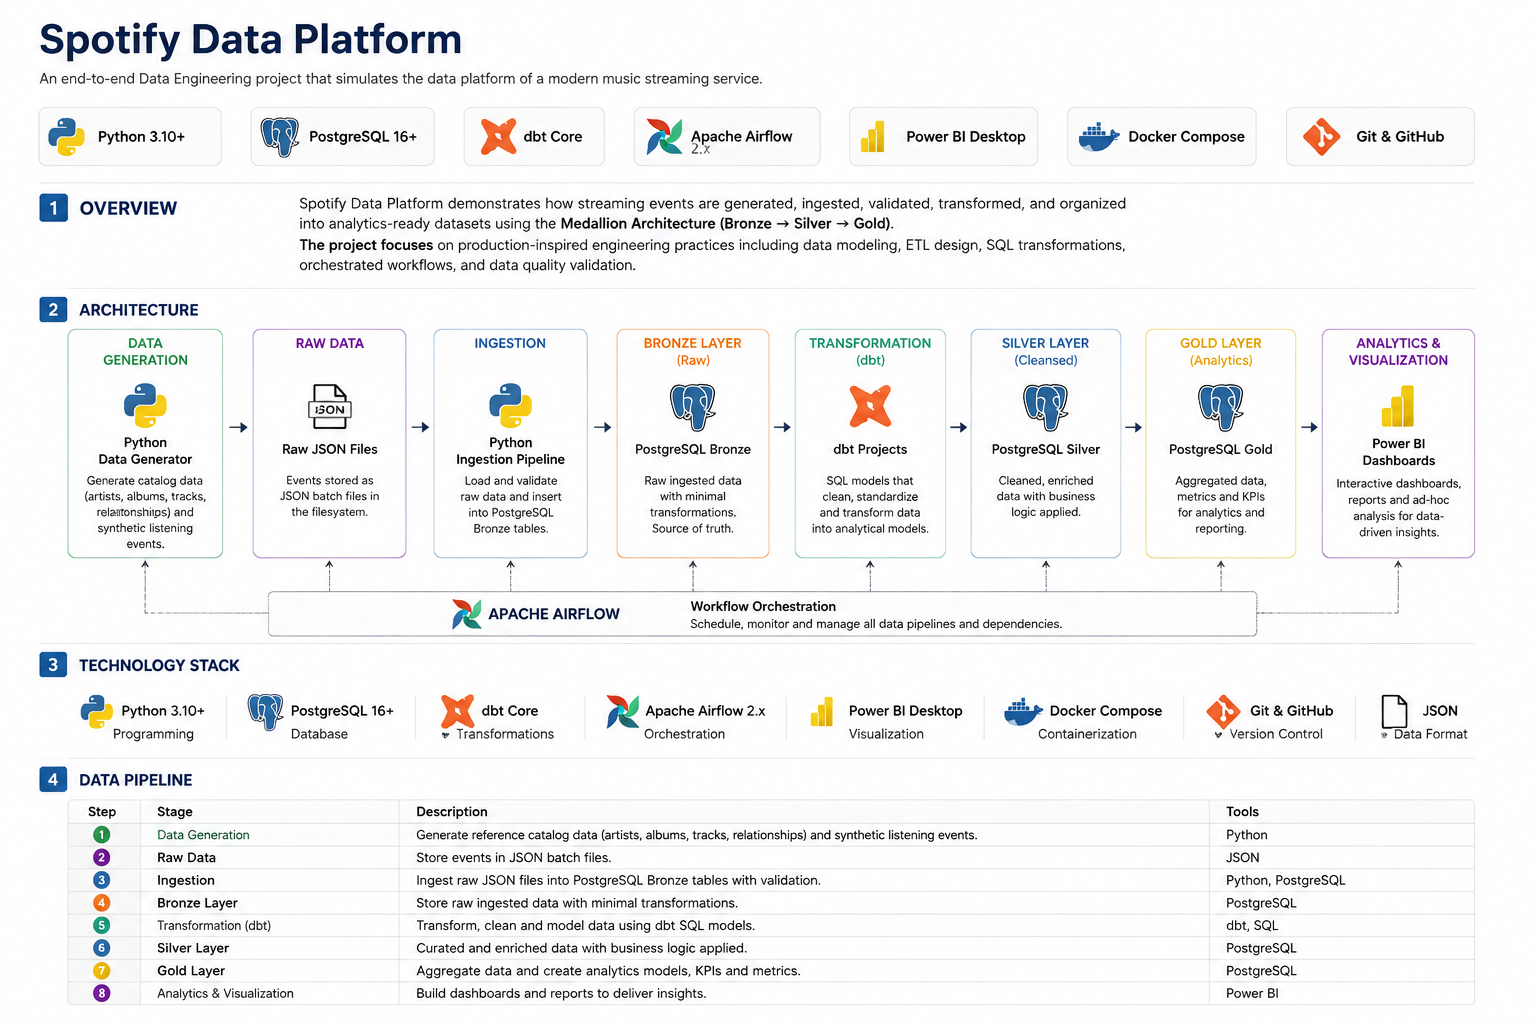
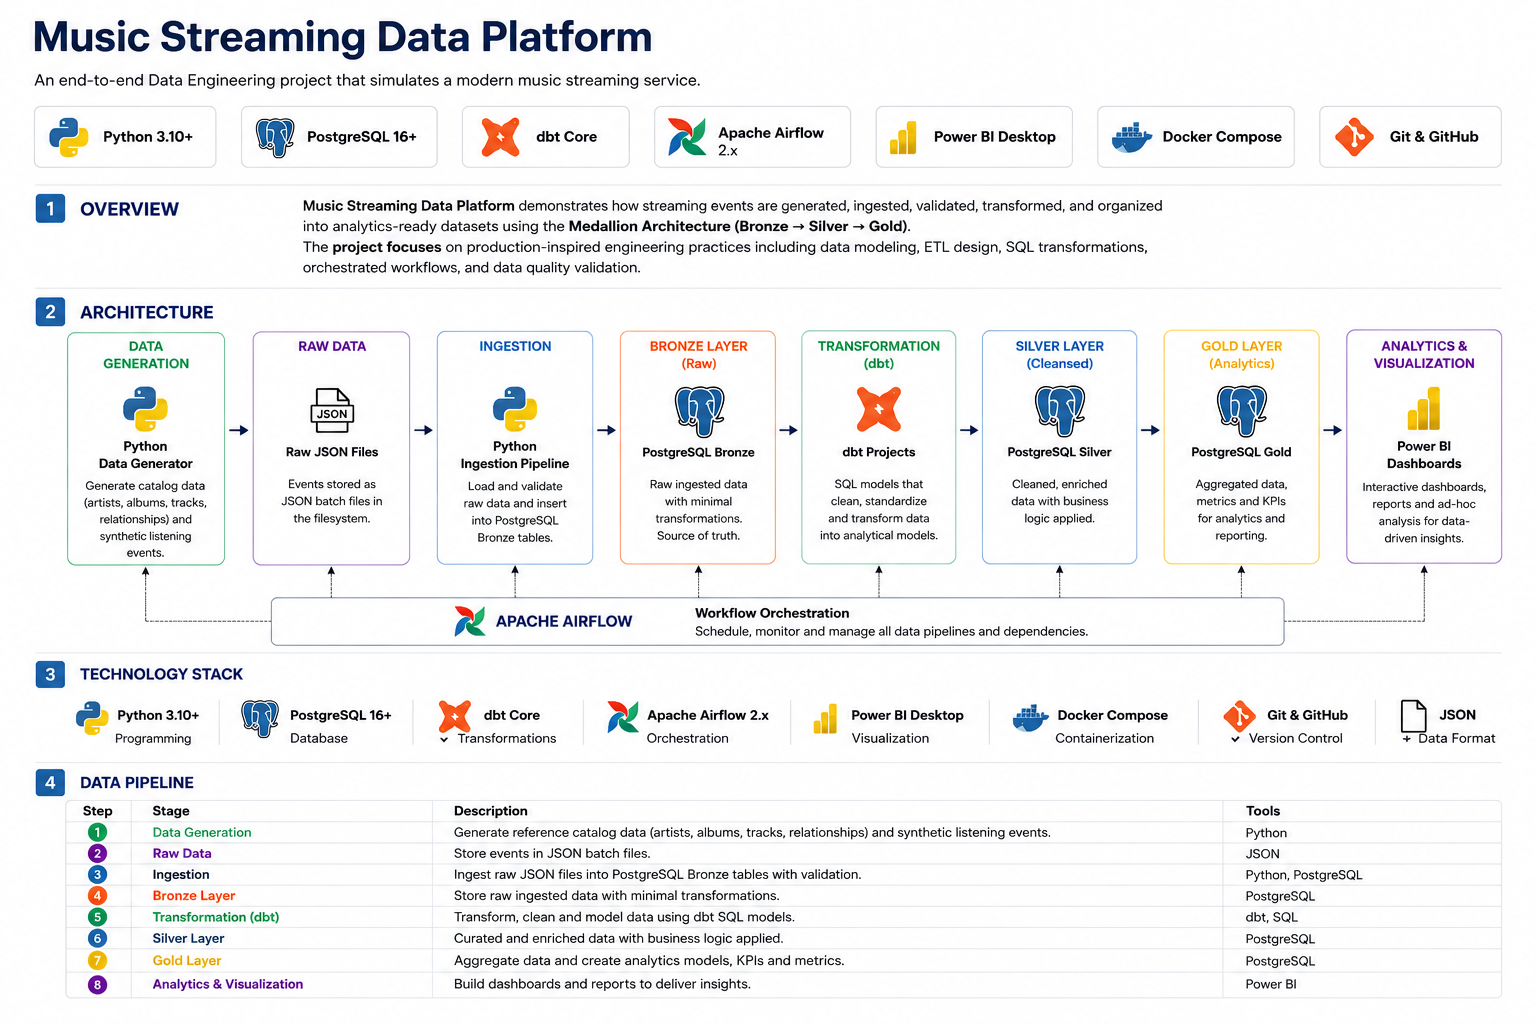
Rename project and update architecture documentation

diff --git a/src/ingest_catalog.py b/src/ingest_catalog.py
@@ -9,11 +9,10 @@ RAW_DATA_DIR = Path("data/raw")
 CONNECTION_STRING = (
     "host=localhost "
     "port=5432 "
-    "dbname=spotify "
-    "user=spotify_user "
-    "password=spotify_password"
+    "dbname=music_streaming "
+    "user=music_streaming_user "
+    "password=music_streaming_password"
 )
-
 
 def load_json(file_name: str) -> list[dict]:
     """Load records from a raw JSON file."""

diff --git a/src/ingest_events.py b/src/ingest_events.py
@@ -22,9 +22,9 @@ def insert_events(events: list[dict]) -> int:
     connection_string = (
         "host=localhost "
         "port=5432 "
-        "dbname=spotify "
-        "user=spotify_user "
-        "password=spotify_password"
+        "dbname=music_streaming "
+        "user=music_streaming_user "
+        "password=music_streaming_password"
     )
 
     insert_query = """

diff --git a/src/generate_events.py b/src/generate_events.py
@@ -275,7 +275,7 @@ def generate_event(
         "event_id": str(
             uuid5(
                 NAMESPACE_URL,
-                f"spotify-event-{event_number}",
+                f"music-streaming-event-{event_number}",
             )
         ),
         "user_id": user_id,

diff --git a/README.md b/README.md
@@ -12,6 +12,8 @@ The main focus is on building production-inspired data pipelines, applying data 
 
 # Architecture
 
+![Architecture](docs/architecture.png)
+
 The platform follows a layered data architecture with two primary data sources:
 
 - **Listening Events:** 500,000 reproducible synthetic listening events with stable user attributes, realistic device usage and a long-tail track popularity distribution.
